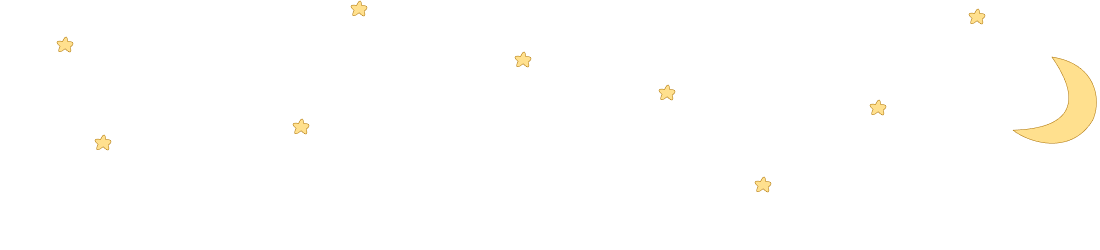
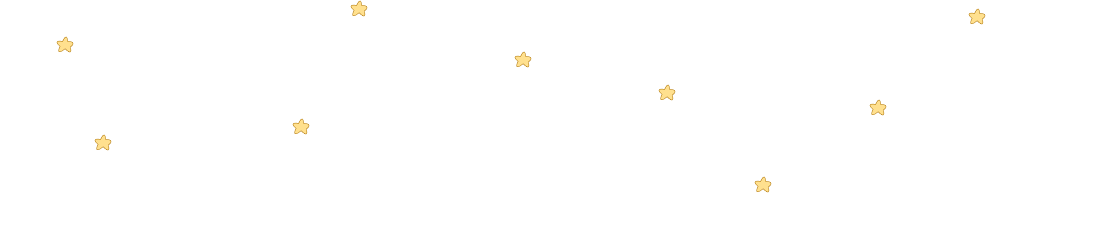
CSS animations

Changed region(s): [[0.8964, 0.224, 1.0, 0.588]]

diff --git a/index.html b/index.html
@@ -22,14 +22,18 @@ git push -->
 <body>
     <header>
         <div id="banner">
-            <h1>Samantha Mah</h1>
-            <h2>DES 157A - Interactive Media II - Fall 2023</h2>
+            <div id="bannertext">
+                <h1>Samantha Mah</h1>
+             <h2>DES 157A - Interactive Media II - Fall 2023</h2>
+            </div>
+            <div id="moon"><img src="images/moon.png"></class>
+            <!-- <div id="bannerimage"><img src="images/banner.png"></div> -->
         </div>
     </header>
 
     <main>
         <article>
-            <img src="images/duck.png">
+            <div class="animal"><img src="images/duck.png"></div>
             <h2>Studios</h2>
             <ul>
                 <li><a href="">Learning Journal</a></li>
@@ -48,7 +52,7 @@ git push -->
         </article>
 
         <article>
-            <img src="images/bunny.png">
+            <div class="animal"><img src="images/bunny.png"></div>
             <h2>Research & Development</h2>
             <ul>
                 <li><a href="">Project Brief</a></li>
@@ -60,7 +64,7 @@ git push -->
         </article>
 
         <article>
-            <img src="images/bear.png">
+            <div class="animal"><img src="images/bear.png"></div>
             <h2>Final</h2>
             <ul>
                 <li><a href="">Final Project</a></li>

diff --git a/styles.css b/styles.css
@@ -15,14 +15,32 @@ body {
     margin: auto;
 }
 
+#moon {
+    margin-top: auto;
+    margin-bottom: auto;
+}
+
 #banner {
     width: 1100px;
     height: 250px;
     background-image: url("images/banner.png");
     background-repeat: no-repeat;
-    background-position: right;
+    background-position: center;
     color: #414673;
     margin: auto;
+    display: flex;
+    justify-content: space-between;
+    animation: animatedBackground 2s linear infinite alternate;
+}
+
+@keyframes animatedBackground {
+    from {
+        background-size: 100%;
+    }
+
+    to {
+        background-size: 125%;
+    }
 }
 
 main {
@@ -64,4 +82,12 @@ ul li a {
 article {
     width: 33%;
     text-align: center;
+}
+
+.animal {
+    transition: transform 5s ease-in-out infinite;
+}
+
+.animal:hover {
+    transform: translateY(-50px);
 }
